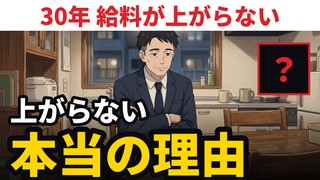
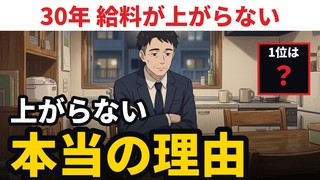
仕事ch：サムネの「？」だけの箱をやめ、型D の伏せた1位だけ「1位は？」の箱にする
- 本人「サムネイルで謎の？マークがあるのは何？必要？」。大きい字がもう問いの形で、中身の無い箱は意味が伝わらない
- make_thumb_job.py：型D 以外は箱を出さない（thumb_q は読まない）。型D で1位を伏せる回は「1位は」＋「？」
- 002・004・008 のサムネを作り直し、rethumb で送り直す。手順書 v4.2

Changed region(s): [[0.8438, 0.25, 0.9375, 0.4722]]

diff --git a/pipeline/make_thumb_job.py b/pipeline/make_thumb_job.py
@@ -2,10 +2,12 @@
 #   python -X utf8 pipeline\make_thumb_job.py <作業フォルダ> [--bg D20] [--check]
 # ・2つの形を作る。a案＝その回の主な形、b案＝もう1つの形（公開72時間の再生がほかの回より少ない時に watch.py が差し替える）
 #   場面（型A・B・C の a案）：人物が写る場面の絵を全面に。上に白い帯と赤い見出し（thumb_top）、下に特大の字（thumb_text。強調の部分を黄で特大）
-#   判定（型D の a案）：左の黒地に答えを伏せた1文（thumb_text。強調の行を赤）、右に人物の絵（「？」の箱は下の決まりの時だけ）、左上に札（thumb_top）、下の帯（thumb_band）
+#   判定（型D の a案）：左の黒地に答えを伏せた1文（thumb_text。強調の行を赤）、右に人物の絵（型D は1位の箱）、左上に札（thumb_top）、下の帯（thumb_band）
 # ・絵は台本の thumb_bg（人物が大きく写るカット）。--bg で替えられる。絵が無ければ止める
 # ・字：thumb_top 16字以内・thumb_text 10字以内（割り方は thumb_lines）・thumb_band 28字以内。「AI」「PR」は入れない。数字は facts.json にある物だけ（check_job_script と同じ照らし方）
-# ・「？」の箱：型D は1位の扱い（タイトルで1位を言う回はその名前、伏せる回は「？」。check_job_script.d_top_label）。ほかの型は thumb_q が true の時だけ（どちらの形でも）
+# ・1位の箱：型D だけ（タイトルで1位を言う回はその名前、伏せる回は「1位は？」。check_job_script.d_top_label）
+#   ほかの型には箱を出さない（2026-10-28 本人「謎の？マークは何？必要？」。thumb_text がもう問いの形で、中身の無い「？」だけの箱は意味が伝わらない。
+#   台本の thumb_q は読まない）
 # ・右下の再生時間の表示の所（x>1090, y>630）には字を置かない
 # ・--check：横320pxに縮めた版を Gemini に読ませ、いちばん大きい字が thumb_text と一致するかを見る（手順書 §10 サムネの点検）
 # ・前の形（紺の地の棒グラフ・黄の地のサムネA）は git の 3745ed1 までの版
@@ -51,11 +53,12 @@ def shade(im, box, top_a, bottom_a):
     im.paste(g, (x0, y0), g)
 
 
-def qbox(d, box, label="？"):
+def qbox(d, box, label="1位は？"):
     x0, y0, x1, y1 = box
     d.rectangle(box, fill=BLACK, outline=RED, width=8)
-    if label == "？":
-        say(d, ((x0 + x1) // 2, (y0 + y1) // 2), "？", int((y1 - y0) * .62), RED, BLACK, 2, "mm")
+    if label == "1位は？":  # 伏せた1位（何が伏せてあるかを箱の上の字で言う）
+        say(d, ((x0 + x1) // 2, y0 + 38), "1位は", fit("1位は", 48, x1 - x0 - 24, 24), WHITE, BLACK, 3, "mm")
+        say(d, ((x0 + x1) // 2, (y0 + y1) // 2 + 24), "？", int((y1 - y0) * .5), RED, BLACK, 2, "mm")
     else:  # 型D でタイトルが1位を言う回は、その名前を出す
         say(d, ((x0 + x1) // 2, (y0 + y1) // 2), label, fit(label, 56, x1 - x0 - 24, 24), YEL, BLACK, 4, "mm")
 
@@ -187,8 +190,8 @@ def box_of(s, f, layout):
         labels = d_top_label(s.get("titles", []), f)
         if labels is None:
             sys.exit("【止まりました】タイトル3案で1位の名前を出す案と伏せる案が混ざっている（サムネの「？」の箱を決められない）")
-        return "？" if labels[0] == "？" else "・".join(labels)
-    return "？" if s.get("thumb_q") else None  # 答えを言っている回に「？」を出すと食い違う（001_v2 の b案。2026-10-27）
+        return "1位は？" if labels[0] == "？" else "・".join(labels)
+    return None
 
 
 def make(work, variant, bg_id=None):

diff --git a/pipeline/write_script.py b/pipeline/write_script.py
@@ -68,7 +68,6 @@ def prompt(work, ch, fix):
   - thumb_top：上の見出し・左上の札。16字以内（例「30年 給料が上がらない」「同じ会社員でも」）。頭に数字を置くと札の赤い箱に入る。
   - thumb_text：いちばん大きい字。10字以内で、答えを伏せた問いか言い切り（例「上がらない本当の理由」「時給は何位？」）。thumb_lines で割り方を指定できる（場面の形は2つまで・判定の形は3つまで。数字の所か最後の部分が強調の色になる）。
   - thumb_band：判定の形の下の帯。28字以内。何を確かめたか＋答えが気になる一言（例「政府の統計で5人の容疑者を採点 → 意外な1位」）。
-  - thumb_q：答えを伏せる回は true（どちらの形にも右上に「？」の箱が出る。型D は1位の扱いで決まるので書かなくてよい）。答えをタイトルで言っている回は書かない。
   - サムネの字に「AI」「PR」は入れない。数字は facts.json にある物だけ。「逆転」「意外」はタイトルと同じ決まり。
 - 図のカットは chart に、facts.json の値を指す形で書く（見本の chart の kind と項目名を使う）。
 - 競合メモがある時は「うちの次の回で試すこと」から、この回の型に合う物を1つ以上、手順書の決まりの中で取り入れる（タイトル3案・サムネの文字・概要欄・台本の構成のどれか）。
